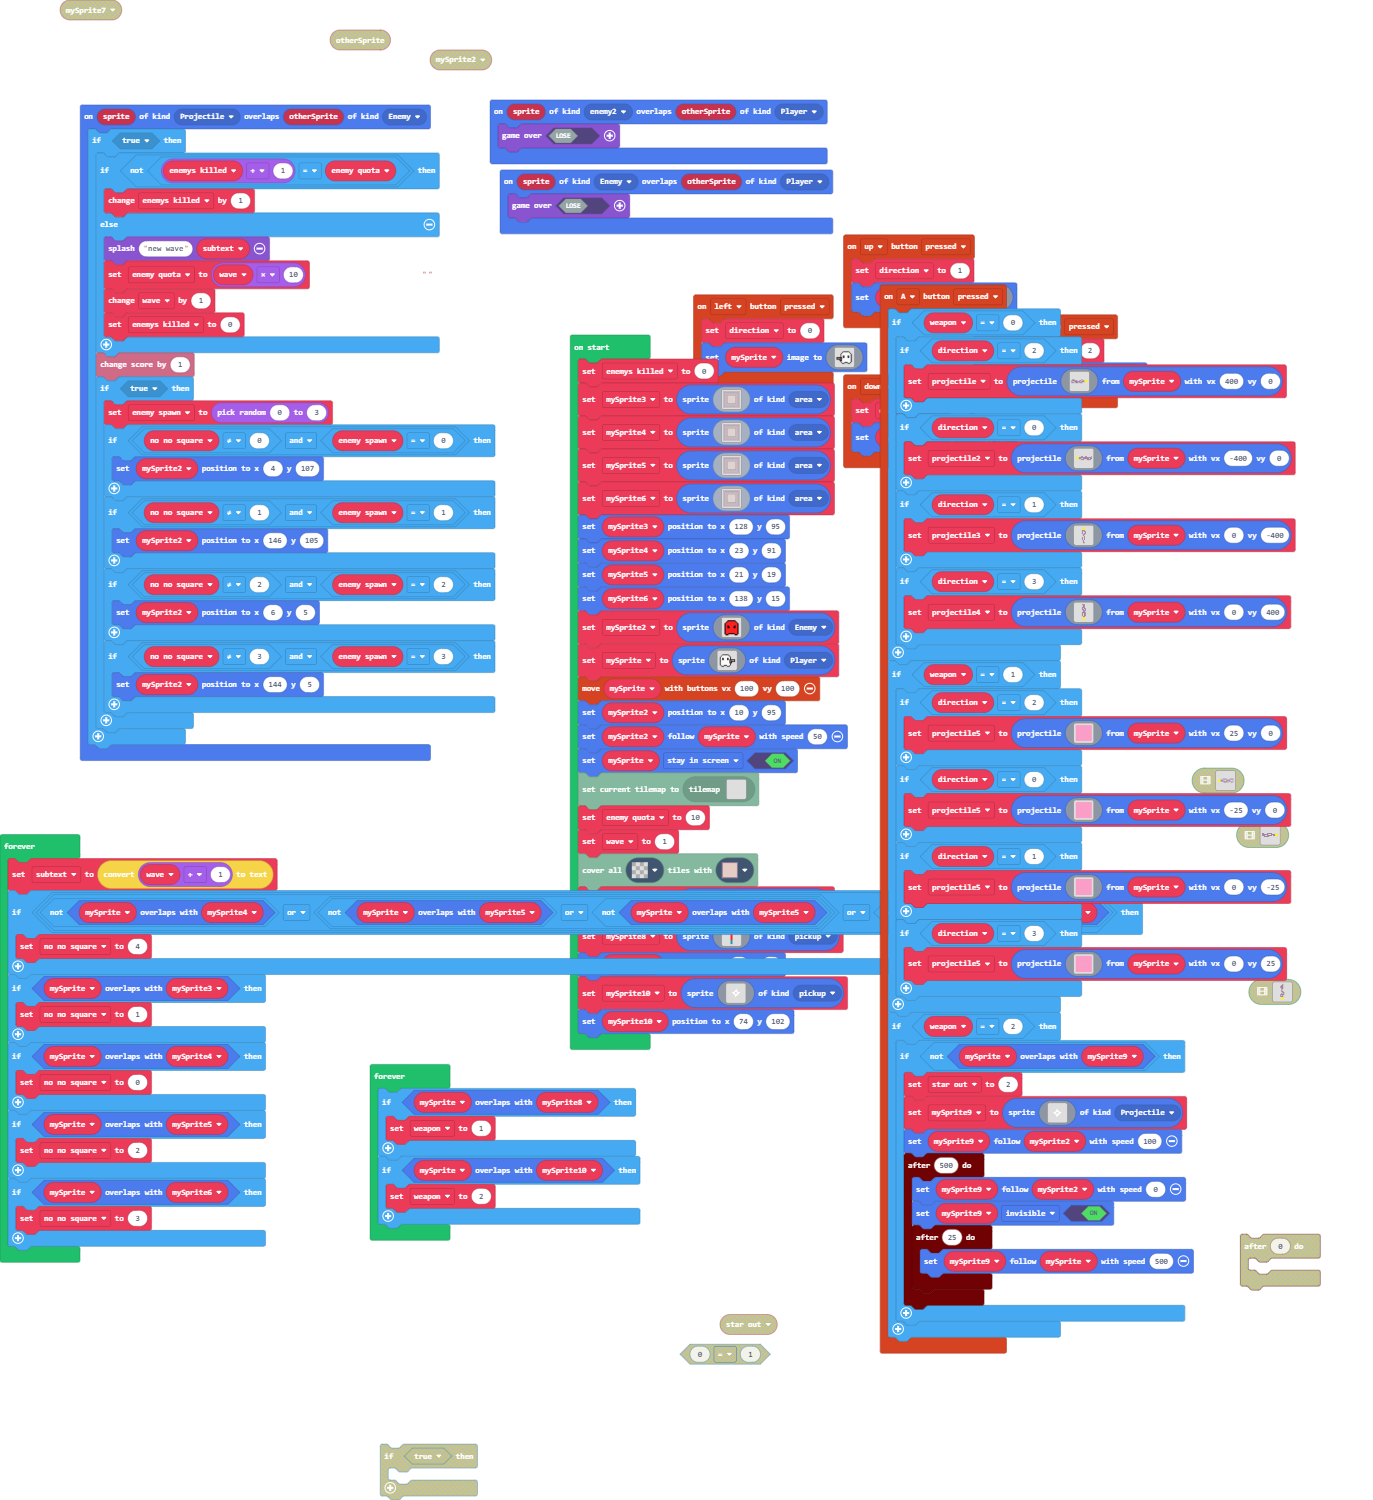
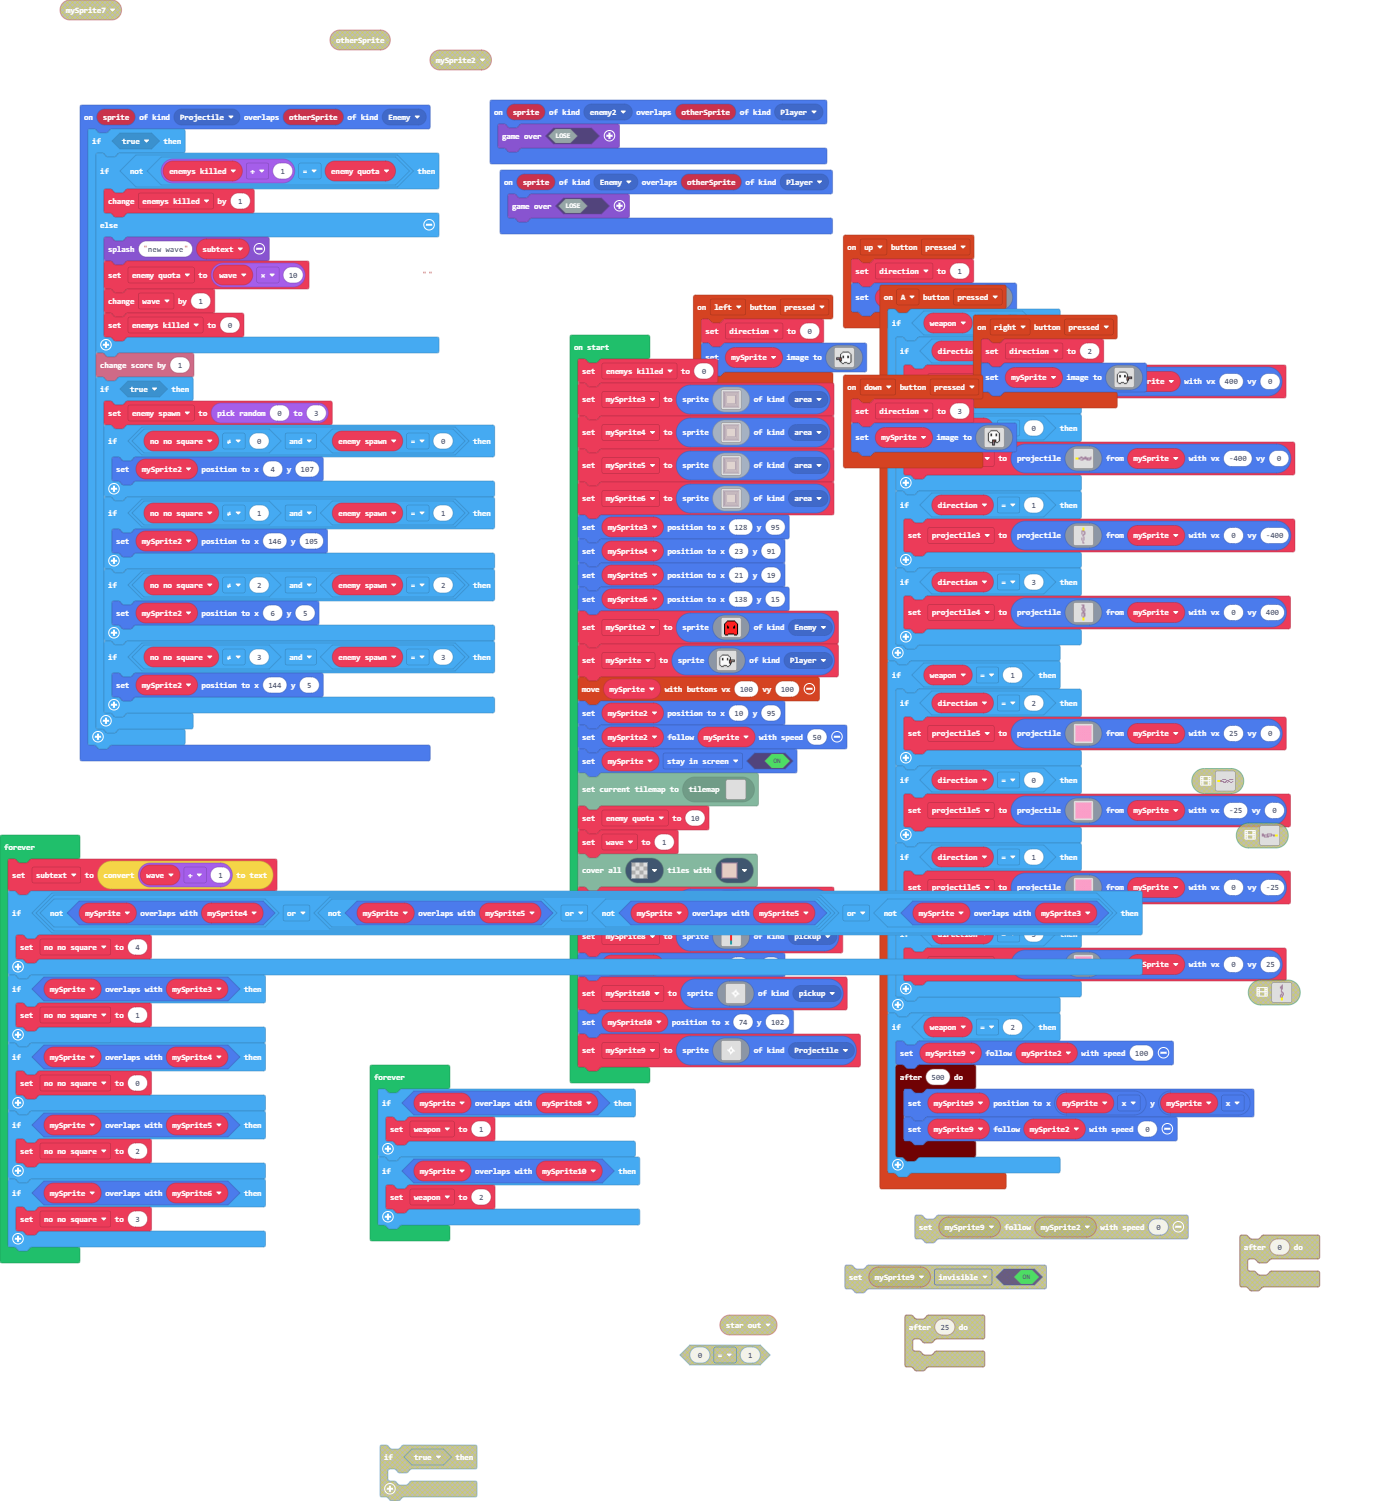
Update main.blocks, main.ts

diff --git a/main.ts b/main.ts
@@ -233,35 +233,11 @@ controller.A.onEvent(ControllerButtonEvent.Pressed, function () {
         }
     }
     if (weapon == 2) {
-        if (!(mySprite.overlapsWith(mySprite9))) {
-            star_out = 2
-            mySprite9 = sprites.create(img`
-                . . . . . . . . . . . . . . . . 
-                . . . . . . . . . . . . . . . . 
-                . . . . . . . . . . . . . . . . 
-                . . . . . . . . . . . . . . . . 
-                . . . . . . . 1 . . . . . . . . 
-                . . . . . . . 1 1 . . . . . . . 
-                . . . . . . 1 1 1 1 . . . . . . 
-                . . . . 1 1 1 . . 1 1 1 . . . . 
-                . . . . . 1 1 . . 1 1 . . . . . 
-                . . . . . . 1 1 1 1 . . . . . . 
-                . . . . . . . 1 1 . . . . . . . 
-                . . . . . . . 1 . . . . . . . . 
-                . . . . . . . . . . . . . . . . 
-                . . . . . . . . . . . . . . . . 
-                . . . . . . . . . . . . . . . . 
-                . . . . . . . . . . . . . . . . 
-                `, SpriteKind.Projectile)
-            mySprite9.follow(mySprite2, 100)
-            timer.after(500, function () {
-                mySprite9.follow(mySprite2, 0)
-                mySprite9.setFlag(SpriteFlag.Invisible, true)
-                timer.after(25, function () {
-                    mySprite9.follow(mySprite, 500)
-                })
-            })
-        }
+        mySprite9.follow(mySprite2, 100)
+        timer.after(500, function () {
+            mySprite9.setPosition(mySprite.x, mySprite.x)
+            mySprite9.follow(mySprite2, 0)
+        })
     }
 })
 controller.left.onEvent(ControllerButtonEvent.Pressed, function () {
@@ -367,8 +343,6 @@ sprites.onOverlap(SpriteKind.Projectile, SpriteKind.Enemy, function (sprite, oth
 let no_no_square = 0
 let enemy_spawn = 0
 let subtext = ""
-let star_out = 0
-let mySprite9: Sprite = null
 let projectile5: Sprite = null
 let projectile4: Sprite = null
 let projectile3: Sprite = null
@@ -376,6 +350,7 @@ let projectile2: Sprite = null
 let projectile: Sprite = null
 let weapon = 0
 let direction = 0
+let mySprite9: Sprite = null
 let wave = 0
 let enemy_quota = 0
 let mySprite: Sprite = null
@@ -756,8 +731,8 @@ let mySprite10 = sprites.create(img`
     . . . . . . . . 1 . . . . . . . 
     . . . . . . . 1 1 . . . . . . . 
     . . . . . . 1 1 1 1 . . . . . . 
-    . . . . 1 1 1 . . 1 1 1 . . . . 
-    . . . . . 1 1 . . 1 1 . . . . . 
+    . . . . 1 1 1 . . 1 1 . . . . . 
+    . . . . . 1 1 . . 1 1 1 . . . . 
     . . . . . . 1 1 1 1 . . . . . . 
     . . . . . . . 1 1 . . . . . . . 
     . . . . . . . 1 . . . . . . . . 
@@ -767,6 +742,24 @@ let mySprite10 = sprites.create(img`
     . . . . . . . . . . . . . . . . 
     `, SpriteKind.pickup)
 mySprite10.setPosition(74, 102)
+mySprite9 = sprites.create(img`
+    . . . . . . . . . . . . . . . . 
+    . . . . . . . . . . . . . . . . 
+    . . . . . . . . . . . . . . . . 
+    . . . . . . . . . . . . . . . . 
+    . . . . . . . . 1 . . . . . . . 
+    . . . . . . . 1 1 . . . . . . . 
+    . . . . . . 1 1 1 1 . . . . . . 
+    . . . . 1 1 1 . . 1 1 . . . . . 
+    . . . . . 1 1 . . 1 1 1 . . . . 
+    . . . . . . 1 1 1 1 . . . . . . 
+    . . . . . . . 1 1 . . . . . . . 
+    . . . . . . . 1 . . . . . . . . 
+    . . . . . . . . . . . . . . . . 
+    . . . . . . . . . . . . . . . . 
+    . . . . . . . . . . . . . . . . 
+    . . . . . . . . . . . . . . . . 
+    `, SpriteKind.Projectile)
 forever(function () {
     subtext = convertToText(wave + 1)
     if (!(mySprite.overlapsWith(mySprite4)) || (!(mySprite.overlapsWith(mySprite5)) || !(mySprite.overlapsWith(mySprite5))) || !(mySprite.overlapsWith(mySprite3))) {
